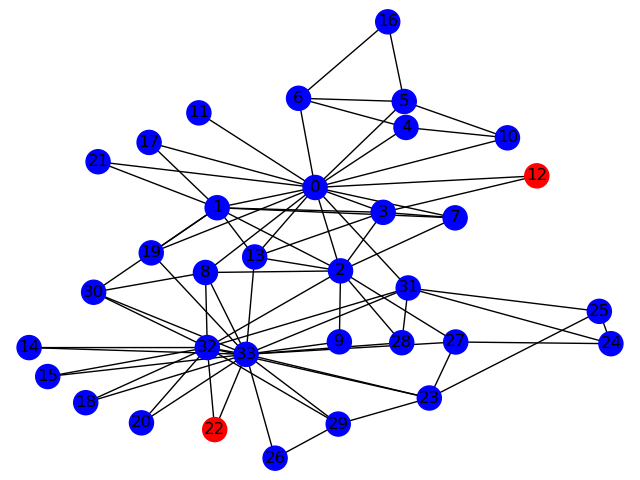
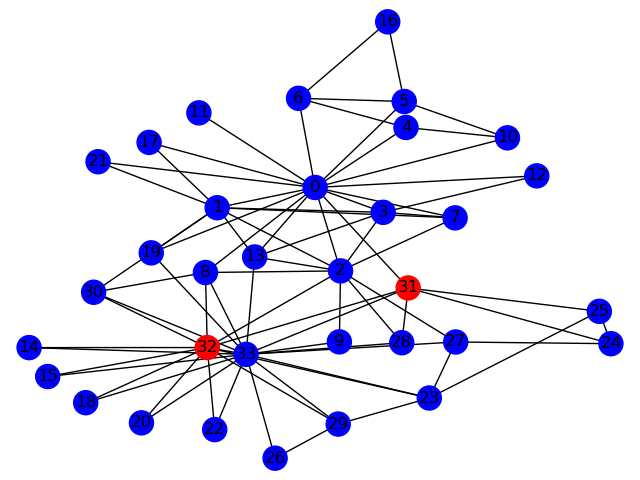
c'è un bug sul conteggio dei malati

diff --git a/SIR_model.py b/SIR_model.py
@@ -322,6 +322,7 @@ class SIR:
             # from I to R, remove from the list
             self.change_state(new_recovered_list, Labels.R, 0)
             self.current_infected_list = list( set(self.current_infected_list) - set(new_recovered_list) )
+            self.current_recovered_list += new_recovered_list
 
             # the list is updated...if a node is Recovered in the previuos for cicle it cannot spread the contagion
             for infected in self.current_infected_list:
@@ -333,10 +334,6 @@ class SIR:
             # add the new current infected
             self.current_infected_list += new_infected_list
             self.change_state(new_infected_list, Labels.I, self.Ti)
-
-            # from R to S, remove from the list
-            self.current_recovered_list += new_recovered_list
-
 
             # at the end of the transition...plot
             self.process_time_step()
